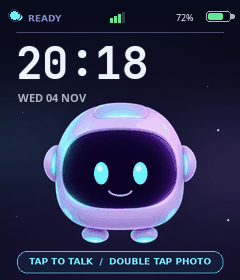
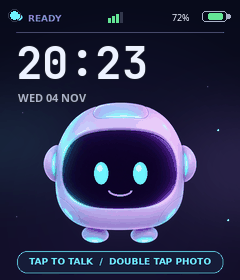
Fine-tune dashboard overlay alignment

diff --git a/firmware/assets/live_dashboard.py b/firmware/assets/live_dashboard.py
@@ -180,16 +180,16 @@ def live_dashboard_frame(
     _draw_backend_dot(d, 10, 11, backend_online)
 
     # Wi-Fi bars (centre)
-    _draw_wifi_bars(d, WIDTH // 2 - 10, 12, wifi_rssi, wifi_connected)
+    _draw_wifi_bars(d, WIDTH // 2 - 12, 12, wifi_rssi, wifi_connected)
 
     # Battery icon + percentage (right)
     battery = max(0, min(100, int(battery_percent)))
     batt_colour = _battery_color(battery)
-    d.text((176, 11), f"{battery}%", font=_cache.font_tiny, fill=WHITE)
+    d.text((172, 11), f"{battery}%", font=_cache.font_tiny, fill=WHITE)
     # Battery body
-    d.rounded_rectangle((206, 11, 230, 21), radius=3, outline=MUTED, width=1)
+    d.rounded_rectangle((202, 11, 226, 21), radius=3, outline=MUTED, width=1)
     # Battery nib
-    d.rounded_rectangle((230, 14, 234, 18), radius=1, fill=MUTED)
+    d.rounded_rectangle((226, 14, 230, 18), radius=1, fill=MUTED)
     # Fill
     fill_width = round(battery / 100 * 20)
     if fill_width > 0:
